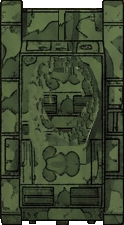
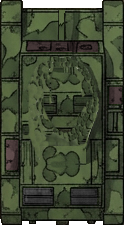
lt visuals

Changed region(s): [[0.2177, 0.1867, 0.7984, 0.2489], [0.871, 0.3733, 0.9919, 0.4667], [0.0484, 0.6533, 0.121, 0.7778]]

diff --git a/src/GameDemo/RTSDemo/RTSAssetManager.java b/src/GameDemo/RTSDemo/RTSAssetManager.java
@@ -191,16 +191,16 @@ public abstract class RTSAssetManager {
             lightTankHullRed = greenToRed(lightTankHull);
             lightTankTurret = load("DemoAssets/TankGame/newLightTank/turret.png");
             lightTankTurretRed = greenToRed(lightTankTurret);
-            lightTankFire = loadSequence("DemoAssets/TankGame/lightTank/fire");
+            lightTankFire = loadSequence("DemoAssets/TankGame/newLightTank/fire");
             lightTankFireRed = greenToRed(lightTankFire);
             lightTankFireDamaged = loadSequence("DemoAssets/TankGame/lightTank/fireDamaged");
             lightTankFireDamagedRed = greenToRed(lightTankFireDamaged);
-            lightTankTurretDamaged = load("DemoAssets/TankGame/lightTank/lightTankTurretDamaged.png");
+            lightTankTurretDamaged = load("DemoAssets/TankGame/newLightTank/turret_damaged.png");
             lightTankTurretDamagedRed = greenToRed(lightTankTurretDamaged);
-            lightTankHullDamaged = load("DemoAssets/TankGame/lightTank/lightTankHullDamaged.png");
+            lightTankHullDamaged = load("DemoAssets/TankGame/newLightTank/hull_damaged.png");
             lightTankHullDamagedRed = greenToRed(lightTankHullDamaged);
-            lightTankTurretDestroyed = load("DemoAssets/TankGame/lightTank/lightTankTurretDestroyed.png");
-            lightTankHullDestroyed = load("DemoAssets/TankGame/lightTank/lightTankHullDestroyed.png");
+            lightTankTurretDestroyed = load("DemoAssets/TankGame/newLightTank/turret_destroyed.png");
+            lightTankHullDestroyed = load("DemoAssets/TankGame/newLightTank/hull_destroyed.png");
             lightTankDeathShadow = load("DemoAssets/TankGame/lightTank/lightTankDeathShadow.png");
         }, executor);
     }
